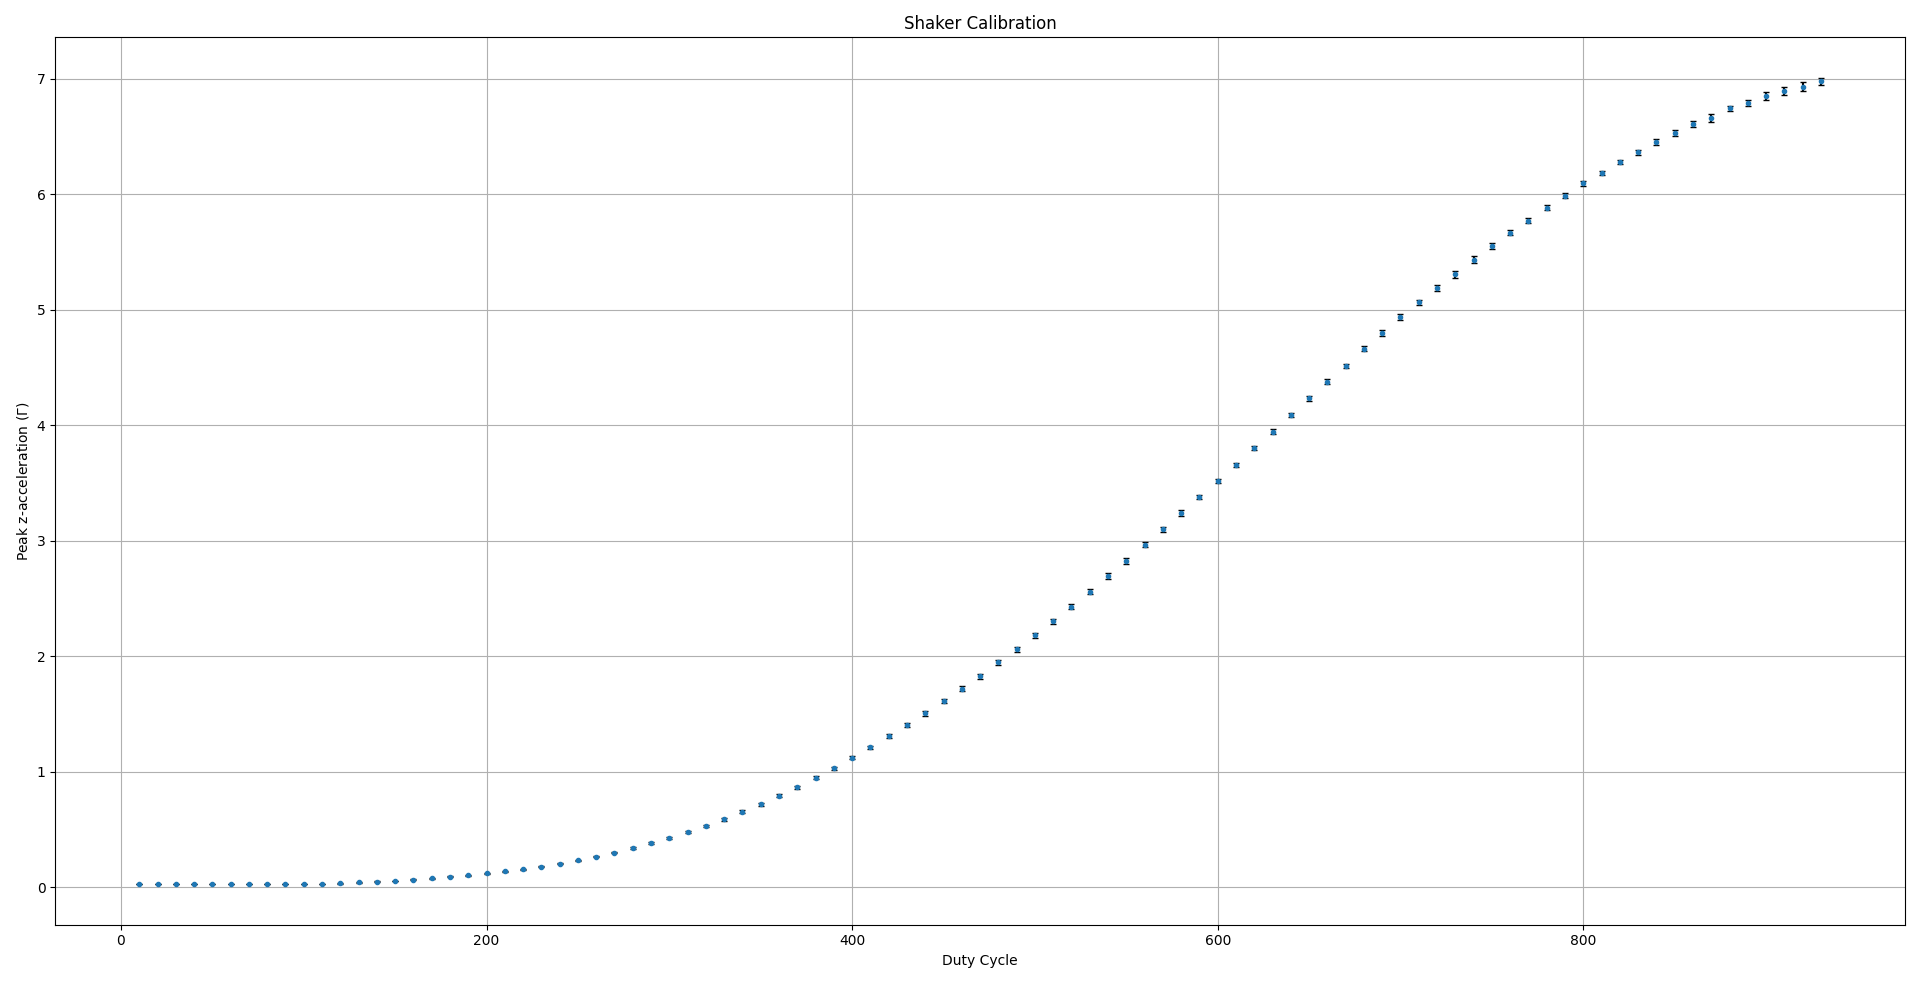
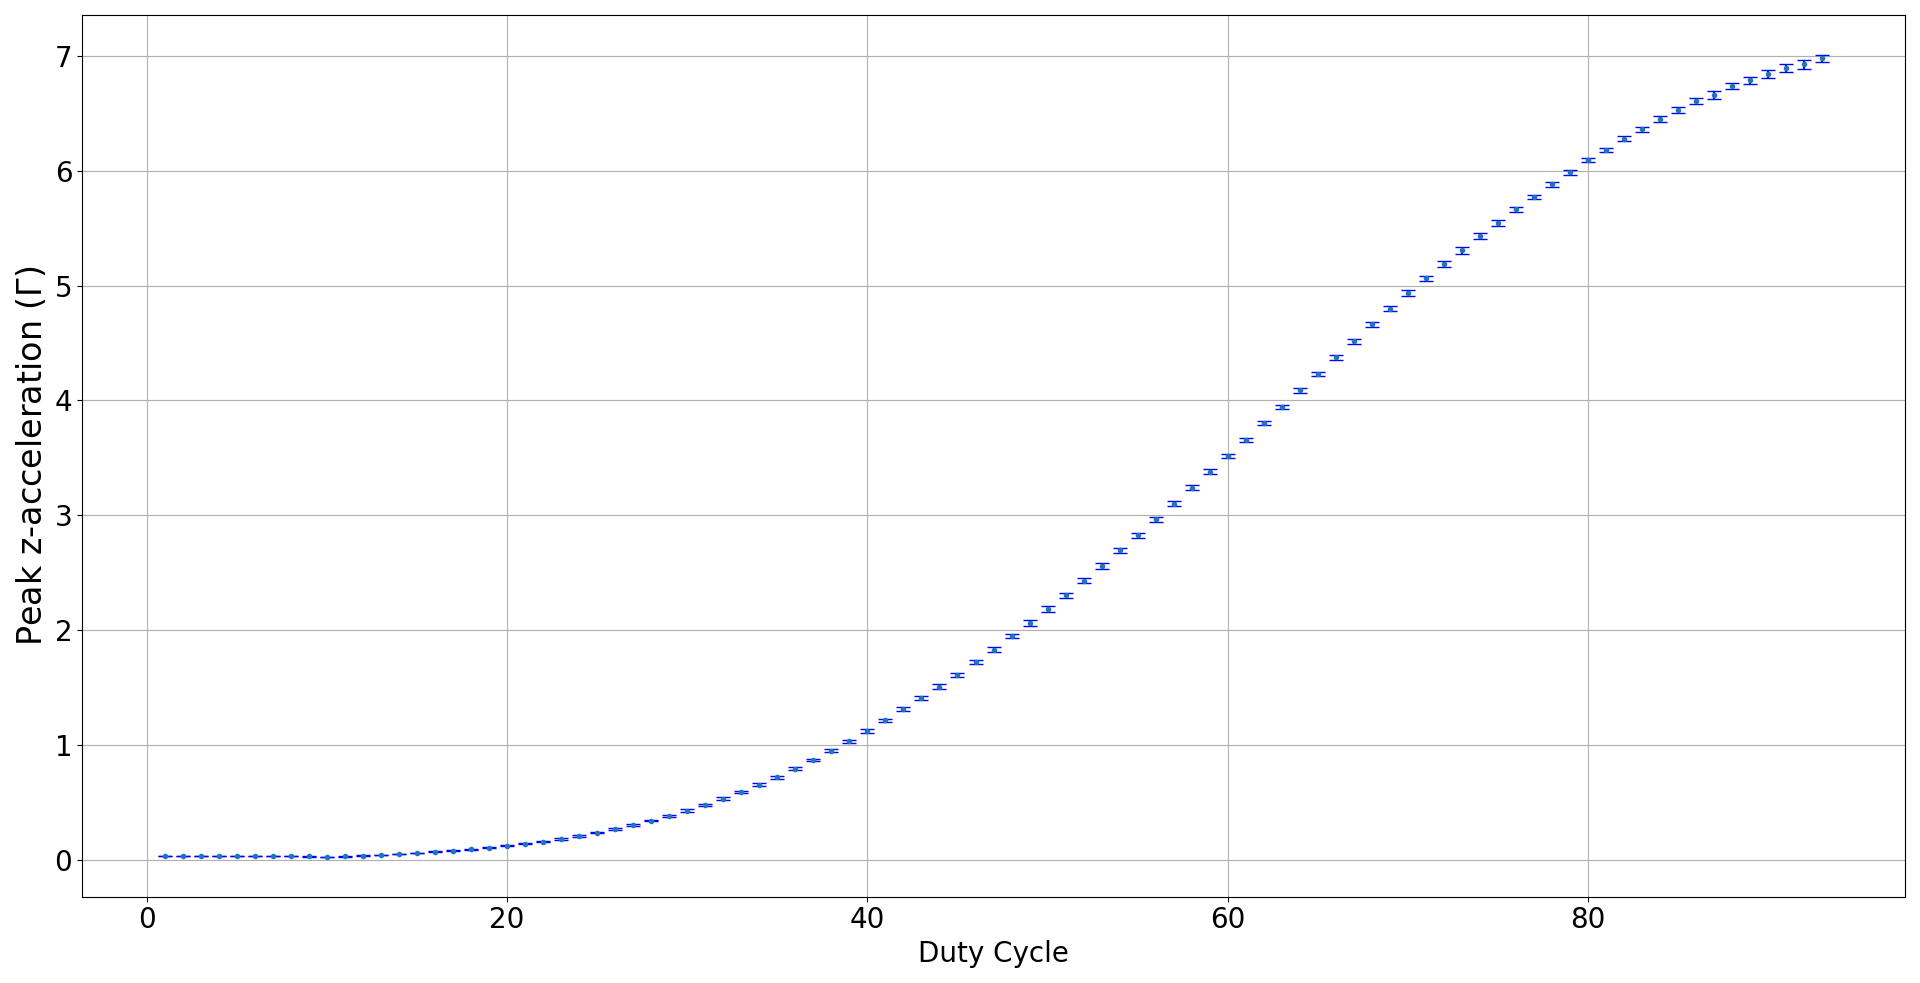
comments added

diff --git a/shaker_acc_calibration/calibration_analysis.py b/shaker_acc_calibration/calibration_analysis.py
@@ -11,20 +11,25 @@ duty_cycle = np.loadtxt("shaker_acc_calibration/duty_cycle_data.txt", dtype=floa
 
 #stack data columns
 acc_data = np.stack((acc_1, acc_2, acc_3, acc_4, acc_5), axis=1)
-mean_acc_data = np.mean(acc_data, axis=1) #calc mean
-std_acc_data = np.std(acc_data, axis=1) #calc st dev
+mean_acc_data = np.mean(acc_data, axis=1)   #calc mean
+std_acc_data = np.std(acc_data, axis=1)     #calc st dev
 
-j_acc = np.array([0.15, 0.3, 0.55, 1.3, 2.3, 3.5, 4.2, 4.8])
+j_acc = np.array([0.15, 0.3, 0.55, 1.3, 2.3, 3.5, 4.2, 4.8])    #data taken from James thesis
 j_duty = np.array([20,30,40,50,60,70,80,90])
-duty_cycle = duty_cycle / 10
+
+duty_cycle = duty_cycle / 10    #converting to percentage
+
 #plotting
 fig, ax = plt.figure(1), plt.axes()
-ax.errorbar(duty_cycle, mean_acc_data, yerr=std_acc_data,fmt=".", ecolor="b", capsize=2, label="Measured data")
-ax.plot(j_duty, j_acc, linestyle="-", marker=".", color="r", label="James's Thesis data")
-ax.plot(j_duty, np.sqrt(2)*j_acc, linestyle="-", marker=".", color="k", label="James's Thesis data x sqrt(2)")
+ax.errorbar(duty_cycle, mean_acc_data, yerr=std_acc_data,fmt=".", ecolor="b", capsize=5, label="Measured data") #errorbar plot.
+
+#ax.plot(j_duty, j_acc, linestyle="-", marker=".", color="r", label="James's Thesis data")      #plot of James's data
+#ax.plot(j_duty, np.sqrt(2)*j_acc, linestyle="-", marker=".", color="k", label="James's Thesis data x sqrt(2)")     #plot of James's data * root (2) 
+
 ax.set_xlabel("Duty Cycle")
 ax.set_ylabel("Peak z-acceleration ($\Gamma$)")
-ax.set_title("Shaker Calibration")
-ax.grid(True)
+plt.xticks()
+plt.yticks()
 ax.legend()
+ax.grid()
 plt.show()
